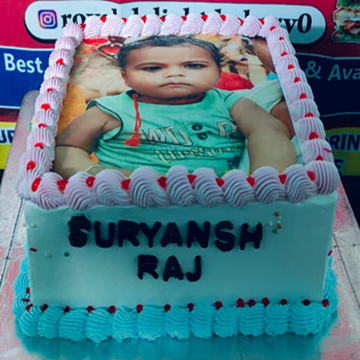
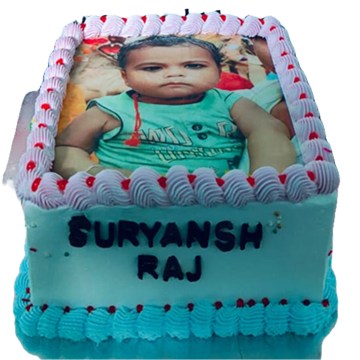
car cake added

Changed region(s): [[0.0, 0.0, 1.0, 1.0]]

diff --git a/js/products.js b/js/products.js
@@ -10,7 +10,7 @@ const BULK_DISCOUNT_PRODUCTS = {
   },
   '[C02] Doll Cake': {
     eligibleSizes: ['3 pounds'],
-    discountRate: 12,
+    discountRate: 10,
     threshold: 2
   },
   '[P05] FARMHOUSE PIZZA': {
@@ -119,9 +119,9 @@ const products = [
     name: '[C09] 3 Tier Chocolate Cake',
     desc: 'Celebrate big moments with this rich and stunning 3-tier chocolate masterpiece!',
     sizes: [
-      { label: '3 pound', price: 780, discount:80 },
-      { label: '4 pounds', price: 1040, discount:120 },
-      { label: '5 pounds', price: 1250, discount:200 }
+      { label: '3 pound', price: 900, discount:50 },
+      { label: '4 pounds', price: 1200, discount:100 },
+      { label: '5 pounds', price: 1500, discount:200 }
     ],
     img: 'img/cake/C09.jpg',
     category: 'Cake'
@@ -433,7 +433,7 @@ const products = [
       { label: '2 pounds', price: 550, discount: 50 },
       { label: '3 pounds', price: 820, discount: 80 }
     ],
-    img: 'img/cake/C34.jpg',
+    img: 'img/cake/C36.jpg',
     category: 'Cake'
   },
   
@@ -549,6 +549,19 @@ const products = [
     img: 'img/cake/C46.jpg',
     category: 'Cake'
   },
+
+    {
+    name: '[C47] Car Cake',
+    desc: 'A fun car-shaped cake with soft layers and creamy frosting—perfect for birthdays and theme parties.',
+    sizes: [
+      { label: '2 pounds', price: 600, discount: 20 },
+      { label: '3 pounds', price: 850, discount: 50 },
+      { label: '5 pounds', price: 1200, discount: 70 }
+    ],
+    img: 'img/cake/C47.jpg',
+    category: 'Cake'
+  },
+  
   
   // PIZZA
   {
